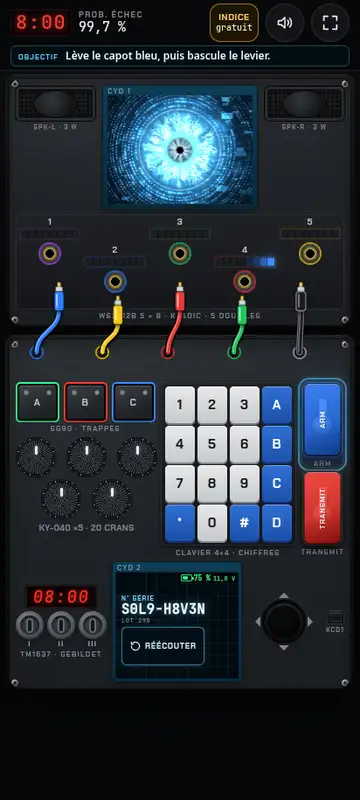
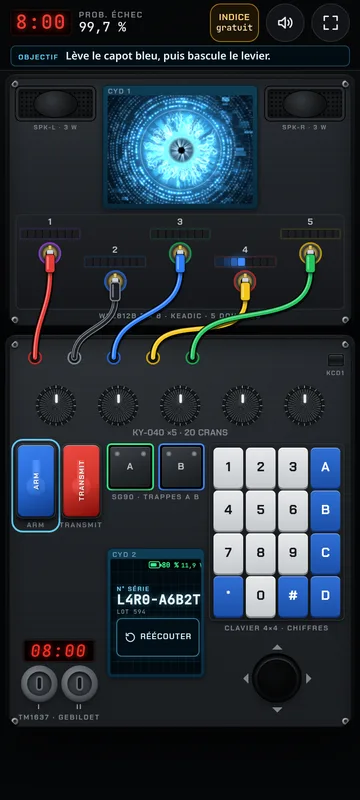
1.3.8 : mallette de l'Entité en v0.4.0 (2 trappes, 2 serrures), nouvelle capture

diff --git a/sw.js b/sw.js
@@ -1,6 +1,6 @@
 // Service worker du portail. Il ne touche QUE les fichiers du portail (liste exacte).
 // Tout le reste (ex. /test-qi/, /wifi-radar/) passe au réseau sans être intercepté.
-const VERSION = '1.3.7';
+const VERSION = '1.3.8';
 const CACHE = `portail-${VERSION}`;
 const SHELL = ['/', '/index.html', '/app.js', '/apps.json', '/manifest.webmanifest',
   '/fonts/young-serif-latin.woff2', '/icons/icon-192.png', '/icons/icon-512.png'];

diff --git a/app.js b/app.js
@@ -1,5 +1,5 @@
 // Portail PassCool — rendu des cartes depuis apps.json (aucune étape de build)
-export const VERSION = '1.3.7';
+export const VERSION = '1.3.8';
 
 const FILTRES = [
   { id: 'tout', label: 'Tout' },

diff --git a/README.md b/README.md
@@ -6,7 +6,7 @@ Le portail de PassCool : tous ses jeux et apps publiés sur GitHub Pages, ses mo
 
 ## État
 
-Version **1.3.7** (25 nov. 2026 : archive v0.3.2 de la mallette dans Prototypes). HTML, CSS et JavaScript simples, aucune étape de build. Le CSS est **dans `index.html`** (balise `<style>`) : il n’y a plus de `styles.css`. PWA installable ; fonctionne hors ligne après la première visite.
+Version **1.3.8** (25 nov. 2026 : La mallette de l’Entité en v0.4.0). HTML, CSS et JavaScript simples, aucune étape de build. Le CSS est **dans `index.html`** (balise `<style>`) : il n’y a plus de `styles.css`. PWA installable ; fonctionne hors ligne après la première visite.
 
 ## Ce qu’il y a
 
@@ -84,6 +84,10 @@ Le portail est à la racine de `passcool17.github.io`, donc son service worker a
 5. Accessibilité : nom du logo « PassCool – retour en haut », étiquettes à 6 px de marge.
 6. Héros : « Salut, c’est PassCool. », phrase personnelle, plus de numéros de section, les 3 captures ouvrent leur jeu.
 7. PWA : raccourcis, captures du manifeste, bouton « Installer l’app ».
+
+## Changements 1.3.8
+
+- La fiche **La mallette de l’Entité** passe en **v0.4.0** (plan d’impression v0.8 : deux trappes A B, deux serrures I II, molettes en ligne), nouvelle capture. Aucune autre fiche modifiée.
 
 ## Changements 1.3.7
 
